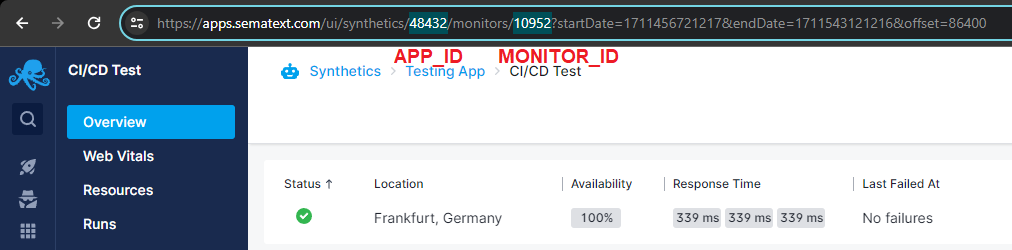
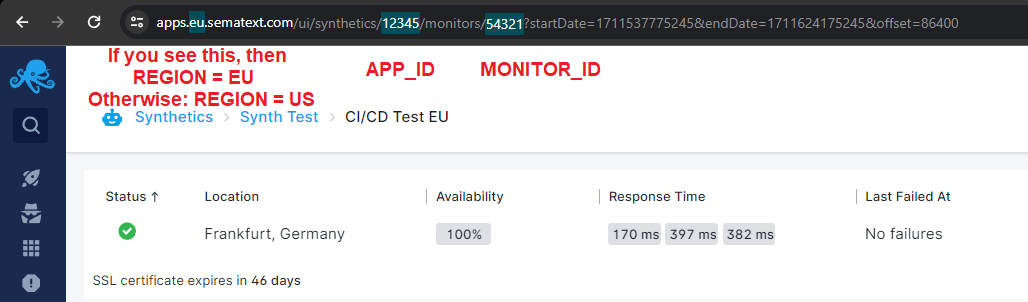
SC-19140 Improve GH Actions integration to simplify usage

diff --git a/docs/synthetics/ci-cd/github-actions.md b/docs/synthetics/ci-cd/github-actions.md
@@ -1,13 +1,30 @@
 title: GitHub Actions Integration
 description: Guide on how to integrate Sematext Synthetics with GitHub Actions.
 
+## Configure repository variables for the integration
+The GitHub Actions integration works by running a Job which runs a Synthetics monitor of your choice against the desired URL. In order to specify which monitor this will be, as well as the API key required to run it, you need to configure some repository variables first.
+
 ### Create API Key Secret
 
 The first step is to create a secret from the repository's **Settings** page for the Sematext API Key, which is needed to authenticate the request to run your desired Synthetics monitor. Go to your repository's **Settings**, and then in the sidebar under **Security** click **Secrets and variables** and then **Actions**. Create a new repository secret and name it `SEMATEXT_API_KEY`, then paste in the [API key for your account](./overview.md#finding-your-sematext-cloud-accounts-api-key).
 
 ![CI/CD GitHub Secret](./images/ci-cd-github-secret.png)
 
-### Add the Run Monitor Job to your GitHub Action Workflow
+
+### Create Repository Variables for monitor information
+
+Once you've set up the repository secret for the API key, you then need to configure some information regarding the monitor which will be used in the Action. This entails defining three *repository variables*:
+- `SEMATEXT_MONITOR_ID` - The ID of the monitor you plan on using with the Action
+- `SEMATEXT_APP_ID` - The ID of the Synthetics App associated with your monitor
+- `SEMATEXT_ENVIRONMENT` - The region in which your account is registered - `US` or `EU`
+
+A quick guide on how to find this information can be found [here](./overview.md#finding-your-monitor-information). Make sure that these are configured as *repository variables* and not *repository secrets*.
+
+![CI/CD GitHub Variables](./images/ci-cd-github-repo-variables.png)
+
+
+
+## Add the Run Monitor Job to your GitHub Action Workflow
 
 Create the `.github/workflows/run-monitor.yml` GitHub Actions file to run your monitors on various CI/CD events. For example, to run the monitor after a deployment event, use the `deployment_status` event as a trigger. The below action uses `deployment_status.target_url` to pass the custom URL to the run monitor API. Make sure to set the appropriate values for [the APP_ID and MONITOR_ID variables](./overview.md#finding-your-synthetics-app-and-monitor-ids).
 
@@ -31,18 +48,33 @@ jobs:
       - name: Run Sematext Monitor
         env:
           API_KEY: ${{ secrets.SEMATEXT_API_KEY }}
-          # Replace APP_ID and MONITOR_ID with your own values
-          APP_ID: 12345
-          MONITOR_ID: 54321
+          APP_ID: ${{ vars.SEMATEXT_APP_ID }}
+          MONITOR_ID: ${{ vars.SEMATEXT_MONITOR_ID }}
+          REGION: ${{ vars.SEMATEXT_REGION }}
         id: run
         run: |
+          echo "Running job with the following variables:"
+          echo " - APP_ID: ${APP_ID}"
+          echo " - MONITOR_ID: ${MONITOR_ID}"
+          echo " - REGION: ${REGION}"
           target_url=`cat "$GITHUB_EVENT_PATH" | jq .deployment_status.target_url`
+          echo "Running monitor for target URL: $target_url"
+          echo " --------------------------------"
+
+          if [ "${REGION}" = "EU" ]; then
+            sematext_base_url="https://apps.eu.sematext.com"
+          else
+            sematext_base_url="https://apps.sematext.com"
+          fi
+
+          url="${sematext_base_url}/synthetics-api/api/v3/apps/${APP_ID}/monitors/runs"
           curl -s --request POST \
-            --url https://apps.sematext.com/synthetics-api/api/v3/apps/${APP_ID}/monitors/runs \
+            --url $url \
               --header 'authorization: apiKey '${API_KEY} \
                 --header 'accept: text/plain' \
                   --header 'content-type: application/json' \
                     --data '[{"monitorId": '${MONITOR_ID}', "url":'$target_url'}]' > results.txt
+
           cat results.txt
           if [ $(head -1 results.txt | grep -c 'passed') -ne 1 ]; then exit 1; fi
 ```

diff --git a/docs/synthetics/ci-cd/overview.md b/docs/synthetics/ci-cd/overview.md
@@ -10,16 +10,16 @@ If you're interested in using our API, you can find more information about it on
 
 Before we discuss the specifics of setting up the various integrations, you first need to collect some information specific to your Sematext Cloud account.
 
-### Finding your Synthetics App and Monitor IDs
+### Finding your monitor information
 
-The first thing you'll need to get is the ID of the Synthetics Monitor that will be in charge of running the check, as well the ID of its associated Synthetics App. You can find these easily by navigating to the desired monitor in the Sematext Cloud UI and then taking a look at the URL, like in the image below. The first number in the URL after `/synthetics/` will be the ID of your Synthetics App, while the second one is the ID of your monitor.`
+The first thing you'll need to get is the ID of the Synthetics Monitor that will be in charge of running the check, as well the ID of its associated Synthetics App. You can find these easily by navigating to the desired monitor in the Sematext Cloud UI and then taking a look at the URL, like in the image below. The first number in the URL after `/synthetics/` will be the ID of your Synthetics App, while the second one is the ID of your monitor. The URL also contains information on which region your account is in - if it's `apps.eu.sematext.com`, then it's `EU`, otherwise it's `US`. 
 
 ![Variables](./images/ci-cd-variable-ids.png)
 
 ### Finding your Sematext Cloud account's API key
 
 Once that's done, you'll also need the API key for your Sematext Cloud account. You can copy your API key from the **Settings** -> **API** page in the UI, which can be found:
-- [here](https://apps.sematext.com/ui/account/api), if your account is registered on the US region, or
+- [here](https://apps.sematext.com/ui/account/api), if your account is registered in the US region, or
 - [here](https://apps.eu.sematext.com/ui/account/api), for the EU region
 
 
